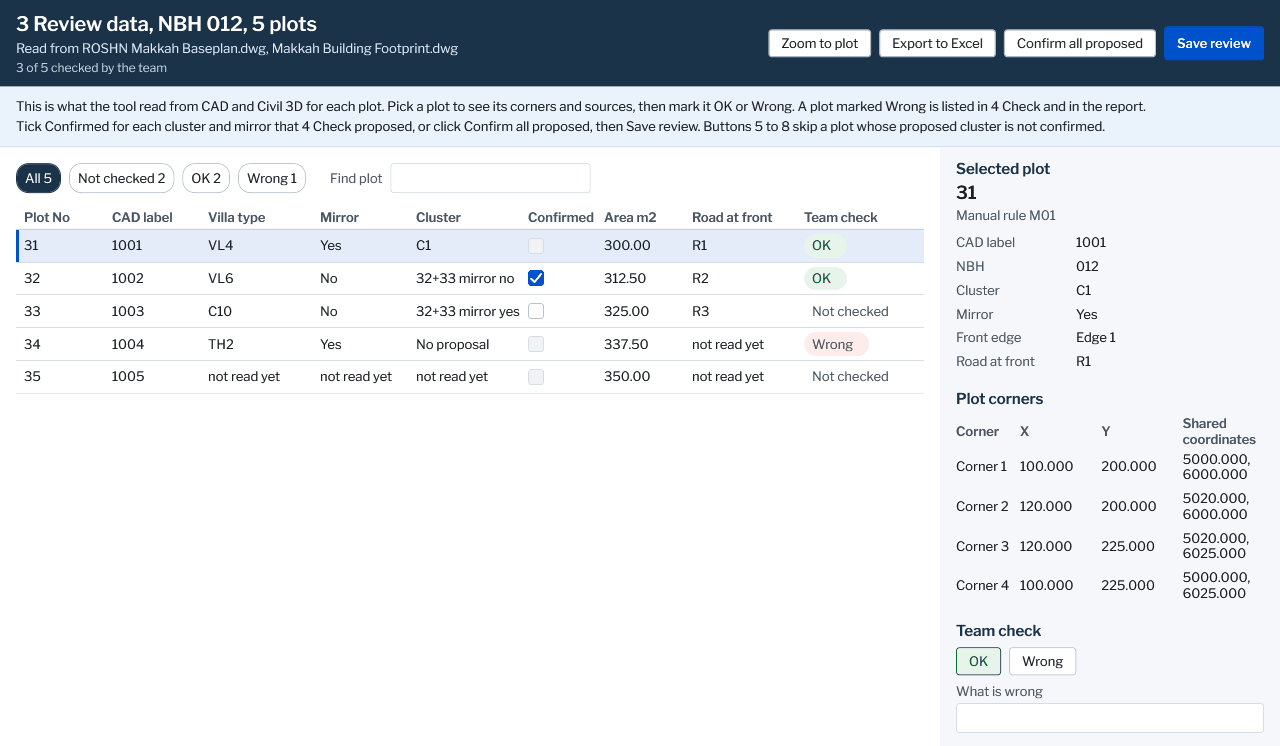
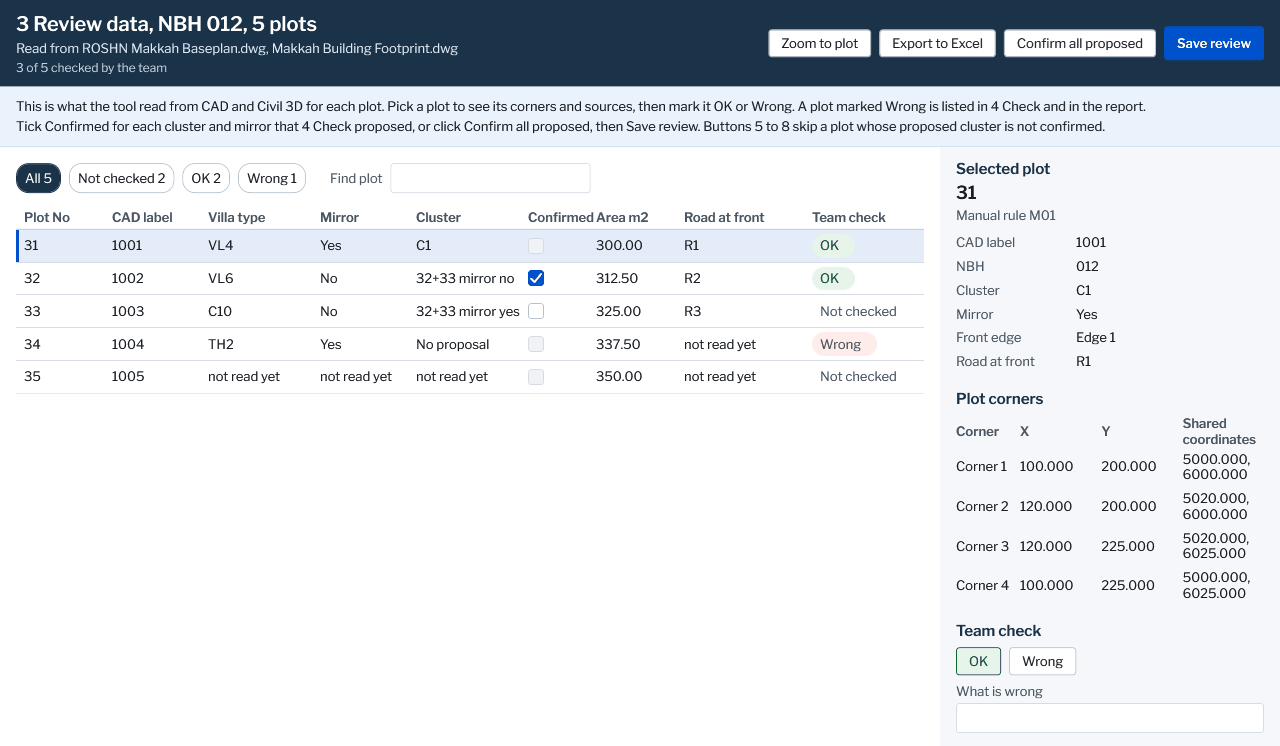
SCAN-UI task 5: merge helper C, cluster confirm in 3 Review data (R442), the column Confirmed narrower so no existing width changes

diff --git a/dotnet/SiteAdaptation.AddIn/Theme/Theme.xaml b/dotnet/SiteAdaptation.AddIn/Theme/Theme.xaml
@@ -548,7 +548,7 @@
   <GridLength x:Key="SA.Grid.ReviewMirror">96</GridLength>
   <GridLength x:Key="SA.Grid.ReviewCluster">112</GridLength>
   <GridLength x:Key="SA.Grid.ReviewArea">88</GridLength>
-  <GridLength x:Key="SA.Grid.ReviewRoad">112</GridLength>
+  <GridLength x:Key="SA.Grid.ReviewRoad">128</GridLength>
   <GridLength x:Key="SA.Grid.ReviewCorner">64</GridLength>
   <GridLength x:Key="SA.Grid.ReviewSideLabel">120</GridLength>
   <Thickness x:Key="SA.Line.Mark">3,0,0,0</Thickness>
@@ -632,8 +632,7 @@
   <GridLength x:Key="SA.Grid.ScanPlot">64</GridLength>
   <GridLength x:Key="SA.Grid.ScanConflictValue">90</GridLength>
 
-  <!-- Lane C SCAN-UI task 5, R442. The column Confirmed of Review data, the width of its heading and a gap. Road at front went from 128 to 112
-       for it, so Team check keeps the chip Not checked whole -->
-  <GridLength x:Key="SA.Grid.ReviewConfirmed">76</GridLength>
+  <!-- Lane C SCAN-UI task 5, R442. The column Confirmed of Review data, narrow so no existing column gives up width -->
+  <GridLength x:Key="SA.Grid.ReviewConfirmed">68</GridLength>
 
 </ResourceDictionary>

diff --git a/steps/ui-shots/README.md b/steps/ui-shots/README.md
@@ -228,7 +228,7 @@ Made up plots of a made up NBH 012, no coordinate or level of a real model. The 
 1. Mirror is the mirror of the footprint block of the plot table until button 4 gives the one of its plan. Cluster, Front edge, Road at front and the corners come only from the plan of button 4 and read "not read yet" before it.
 2. Every row names the manual rule M01, as the tooltip of its Plot No and as "Manual rule M01" in the side box. No other rule of M01 to M15 reads what a row shows (CHOSEN).
 3. Export to Excel says it is not built yet, no xlsx writer is reachable from the add-in (R350). Zoom to plot says the same until the Revit side sets its delegate.
-4. Lane C SCAN-UI task 5, R442, a DRAFT with no board: the column Confirmed (76) after Cluster with the tick of SA.Pane.Check at the height of the row, the button Confirm all proposed in the band before Save review, grey with nothing to confirm, and a second help line under How to use while the plan proposes a cluster. Road at front went from 128 to 112 so Team check keeps Not checked whole. The sample proposals and reasons are made up, plot 32 shows "32+33 mirror no" ticked, 33 "32+33 mirror yes" not ticked, 34 "No proposal".
+4. Lane C SCAN-UI task 5, R442, a DRAFT with no board: the column Confirmed (68) after Cluster with the tick of SA.Pane.Check at the height of the row, the button Confirm all proposed in the band before Save review, grey with nothing to confirm, and a second help line under How to use while the plan proposes a cluster. No existing column width changed, the heading Confirmed and the chip Not checked just fit. The sample proposals and reasons are made up, plot 32 shows "32+33 mirror no" ticked, 33 "32+33 mirror yes" not ticked, 34 "No proposal".
 
 ## Site Adaptation Rules, rules.png against 13-workflow-changes.md
 
